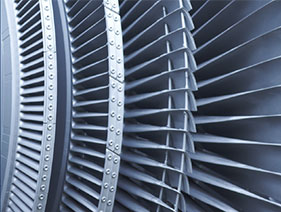
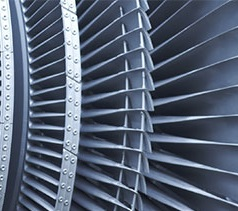
first draft

diff --git a/execed/englead/2016/combined-index.html b/execed/englead/2016/combined-index.html
@@ -10,7 +10,7 @@
 <div align="center">
 <table width="496" border="0" cellpadding="0" cellspacing="0">
 <tr>
-<td colspan="2" style="padding-bottom:0px;margin-bottom:0px;"><a href="http://engineeringleadership.nd.edu/" target="_blank"><img src="http://static.local/execed/englead/2016/combined-header.jpg" width="496" height="400" border="0" style="display:block;" alt="Notre Dame Business - Legendary Advantage"></a>
+<td colspan="2" style="padding-bottom:0px;margin-bottom:0px;"><a href="http://engineeringleadership.nd.edu/" target="_blank"><img src="http://static.mendoza.nd.edu/execed/englead/2016/combined-header.jpg" width="496" height="400" border="0" style="display:block;" alt="Notre Dame Business - Legendary Advantage"></a>
 
 
 </td>
@@ -40,7 +40,7 @@ This is consistent with the College’s mission to be, first and foremost, a pow
 <br />
 Yours in Notre Dame,</p>
 
-<img src="http://static.local/execed/englead/2016/pk-sig.jpg" border="0" />
+<img src="http://static.mendoza.nd.edu/execed/englead/2016/pk-sig.jpg" border="0" />
 
 <p style="font-family: Arial, sans-serif; font-size:15px;font-weight:300;Color:#002a5c;text-align: left;">Peter Kilpatrick <br />McCloskey Dean of Engineering</p>
 
@@ -52,20 +52,20 @@ Yours in Notre Dame,</p>
 <td colspan="2">
 	<table cellpadding="0" cellspacing="0">
 		<tr style="margin:0px;padding:0px;">
-			<td style="margin:0px;padding:0px;background-color:#002b5c;color:#ffffff;width:215px">
-				<p style="">Learn More:</p>
-				<p style="">To learn more about the program, please visit our web site: <br />engineeringleadership.nd.edu </p>
- 				<p style="">Contact:</p>
- 				<p style="">Chris Cushman, Program Manager at ccushman@nd.edu or 574-631-5285 <br />
- 				Gary Gilot, Director of Engineering Leadership and Community Engagement in The College of Engineering at Gary.Gilot.1@nd.edu or 574-631-0282</td>
-			<td style="margin:0px;padding:0px;"><img src="http://static.local/execed/englead/2016/turbine.jpg" width="281" height="212" alt="Engineering Leadership" style="display:block;" border="0" /></td>
+			<td style="margin:0px;padding-left:5px;padding-right:5px;padding-top:0px;background-color:#002b5c;color:#ffffff;width:258px;font-family: Arial, sans-serif; font-size:12px;font-weight:300;">
+				<p><span style="color:#cd9700;font-weight:600;font-size:14px;">Learn More:</span> <br />
+				To learn more about the program, please visit our web site: <br /><a href="http://engineeringleadership.nd.edu" target="_blank" style="color:#ffffff">engineeringleadership.nd.edu</a> </p>
+ 				<p><span style="color:#cd9700;font-weight:600;font-size:14px;">Contact:</span> <br />
+ 				<strong>Chris Cushman</strong>, Program Manager at <a href="mailto:ccushman@nd.edu" target="_blank" style="color:#ffffff">ccushman@nd.edu</a> or 574-631-5285 <br /><br />
+ 				<strong>Gary Gilot</strong>, Director of Engineering Leadership and Community Engagement in The College of Engineering at <a href="mailto:Gary.Gilot.1@nd.edu" target="_blank" style="color:#ffffff">Gary.Gilot.1@nd.edu</a> or 574-631-0282</td>
+			<td style="margin:0px;padding:0px;"><img src="http://static.mendoza.nd.edu/execed/englead/2016/turbine.jpg" width="238" height="211" alt="Engineering Leadership" style="display:block;" border="0" /></td>
 		</tr>
 	</table>
 <br />
 <table width="496px">
 	<tr>
-		<td width="50%" style="text-align: center; font-size:11px;"><a href="mailto:executive.business@nd.edu" target="_blank" style="font-family: Arial, sans-serif; text-decoration:none;color:#002b5c;font-weight:600;">Contact Us </a> | <a href="http://static.mendoza.nd.edu/execed/englead/2016/combined-index.html" target="_blank" style="font-family: Arial, sans-serif; text-decoration:none;color:#002b5c;font-weight:600;">View Online</a> | <span style="font-family: Arial, sans-serif; text-decoration:none;color:#002b5c;font-weight:600;">574-631-5285</span></td>
-		<td width="50%"  style="text-align: center;"><img src="http://static.mendoza.nd.edu/execed/englead/2016/mcob-logo.jpg" alt="University of Notre Dame" style="padding:20px;"/></td>
+		<td width="50%" style="text-align: center; font-size:13px;"><a href="mailto:executive.business@nd.edu" target="_blank" style="font-family: Arial, sans-serif; text-decoration:none;color:#002b5c;font-weight:600;">Contact Us </a> | <a href="http://static.mendoza.nd.edu/execed/englead/2016/combined-index.html" target="_blank" style="font-family: Arial, sans-serif; text-decoration:none;color:#002b5c;font-weight:600;">View Online</a> | <span style="font-family: Arial, sans-serif; text-decoration:none;color:#002b5c;font-weight:600;">574-631-5285</span></td>
+		<td width="50%"  style="text-align: center;"><img src="http://static.mendoza.nd.edu/execed/englead/2016/mcob-logo.jpg" alt="University of Notre Dame" style="padding-right:10px;"/></td>
 	</tr>
 </table>
 </td>
